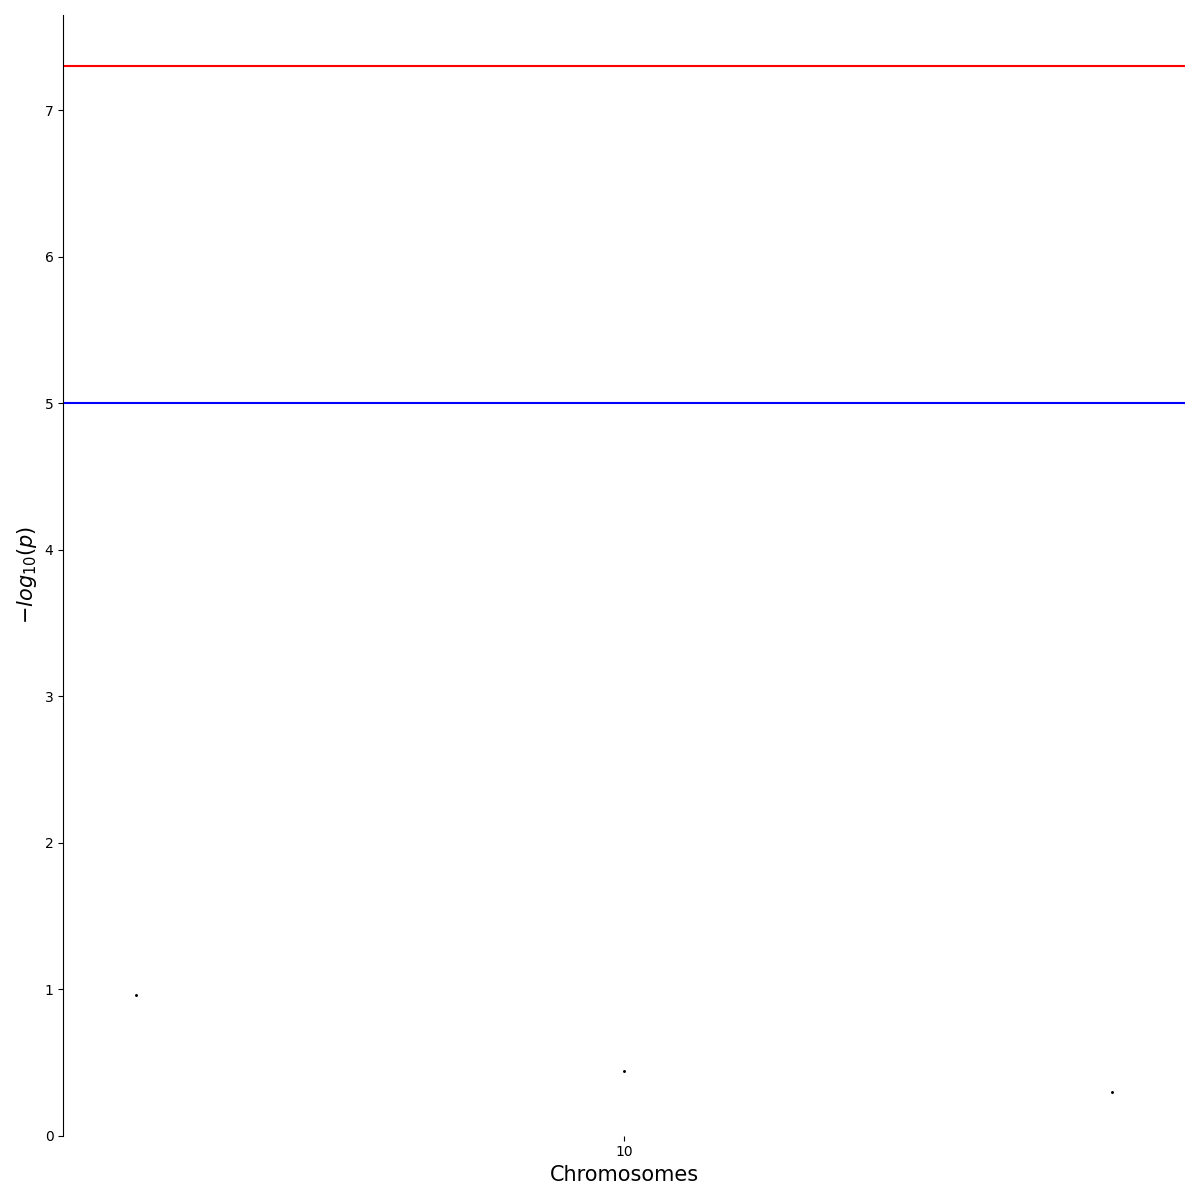
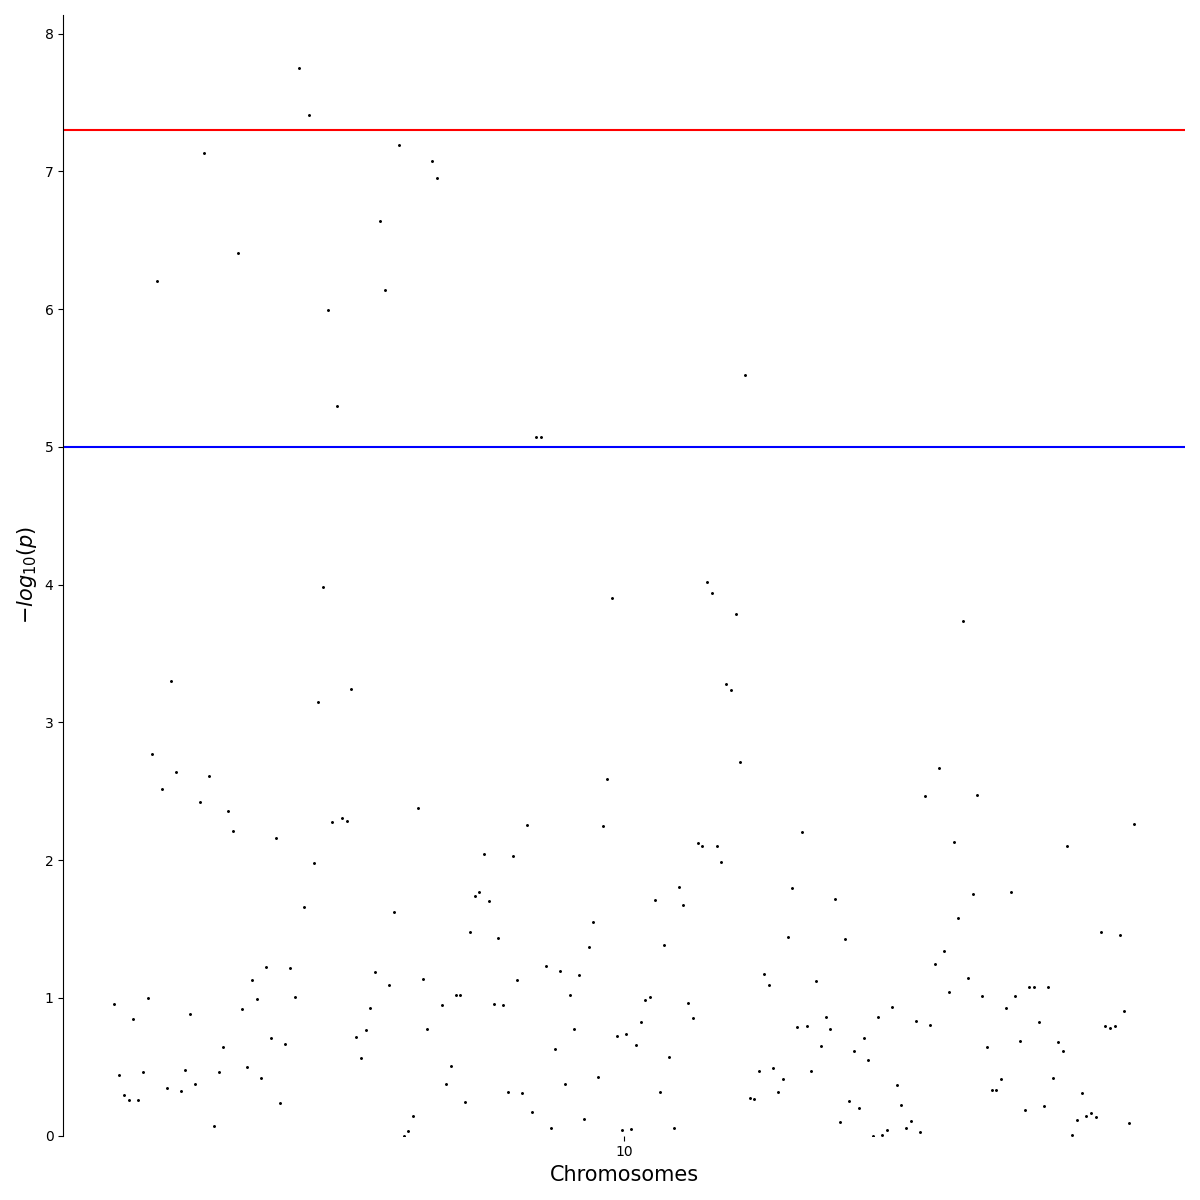
updated arguments for graphing

diff --git a/GWAS.py b/GWAS.py
@@ -8,7 +8,7 @@ import sys
 import readvcf
 import p_val
 
-def performAnalysis(vcf, phen, outPath='out.csv', graphType=None):
+def performAnalysis(vcf, phen, outPath='out.csv', willOutputQQ=False, willOutputManhattan=False):
     if not os.path.isfile(vcf) or not os.path.isfile(phen):
         sys.stderr.write('vcf and phenotype files missing\n')
         sys.exit(1)
@@ -26,11 +26,11 @@ def performAnalysis(vcf, phen, outPath='out.csv', graphType=None):
     # print(f'{p_value[:10]}')
     # print(f'{beta_values[:10]}')
     
-    # TODO: create plots for specified types
-    if graphType == 'qq':
-        print()
-    elif graphType == 'manhattan':
-        print()
+    df = pd.read_csv(outPath)
+    if willOutputQQ:
+        p_val.QQPlot(df)
+    if willOutputManhattan:
+        p_val.manhattanPlot(df)
 
 if __name__=='__main__':
     parser = argparse.ArgumentParser(
@@ -46,8 +46,8 @@ if __name__=='__main__':
                         type=float, required=False)
     parser.add_argument('-o', '--out', help='optional file to output GWAS results',
                         metavar='FILE', type=str, required=False)
-    parser.add_argument('-g', '--graph_type', help='optional type of graph to save; graph will not be saved otherwise',
-                        metavar='FILE', type=str, required=False)
+    parser.add_argument('-q', '--qq', help='optional qqman plot saved as "qqplot.png"', required=False, action='store_true')
+    parser.add_argument('-m', '--manhattan', help='optional manhattan plot saved as "manhattanplot.png"', action='store_true', required=False)
     
     args = parser.parse_args()
-    performAnalysis(args.vcf, args.phen, args.out, args.graph_type) 
+    performAnalysis(args.vcf, args.phen, args.out, args.qq, args.manhattan) 

diff --git a/p_val.py b/p_val.py
@@ -187,7 +187,8 @@ def calculatePVal(pheno, geno_df):
     return p_values, beta_values
 
 # Not called yet
-def QQPlot(pvals):
+def QQPlot(df):
+    pvals = df['P'].tolist()
     pvals.sort()
     unif = list(np.random.uniform(0, 1, size=len(pvals)))
     unif.sort()
@@ -204,10 +205,7 @@ def QQPlot(pvals):
     plt.savefig('qqplot.png')
 
 def manhattanPlot(df):
-    #df needs to have columns 'CHR'(chromosome), 'BP'(basepair), 'P'(p-value)
     qqman.manhattan(df, out='manhattanplot.png')
-
-
 
 def calculate_maf(ref_allele, alt_allele, genotypes):
     # calculate maf
